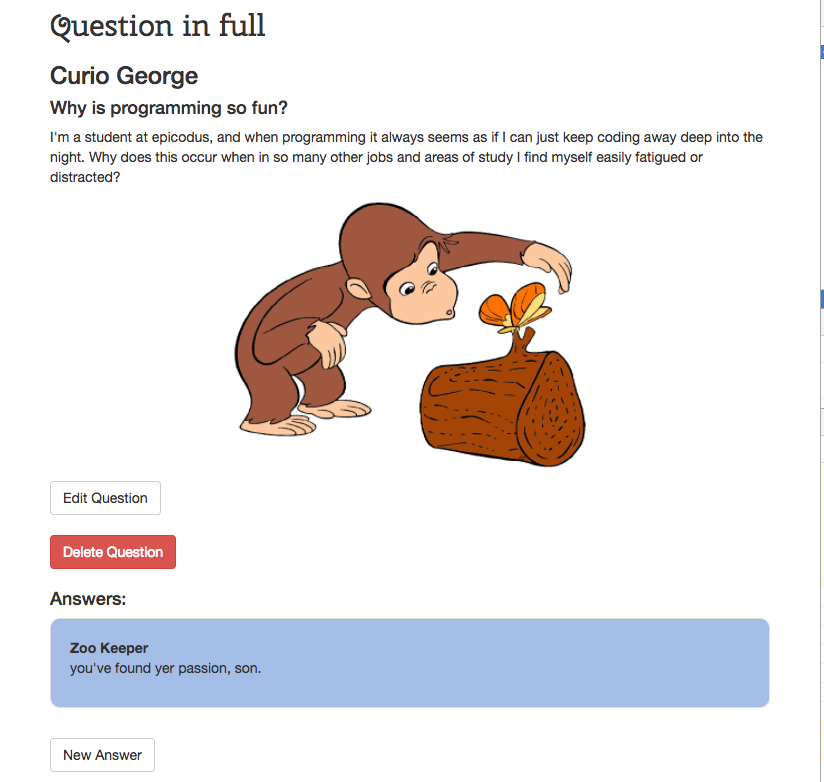
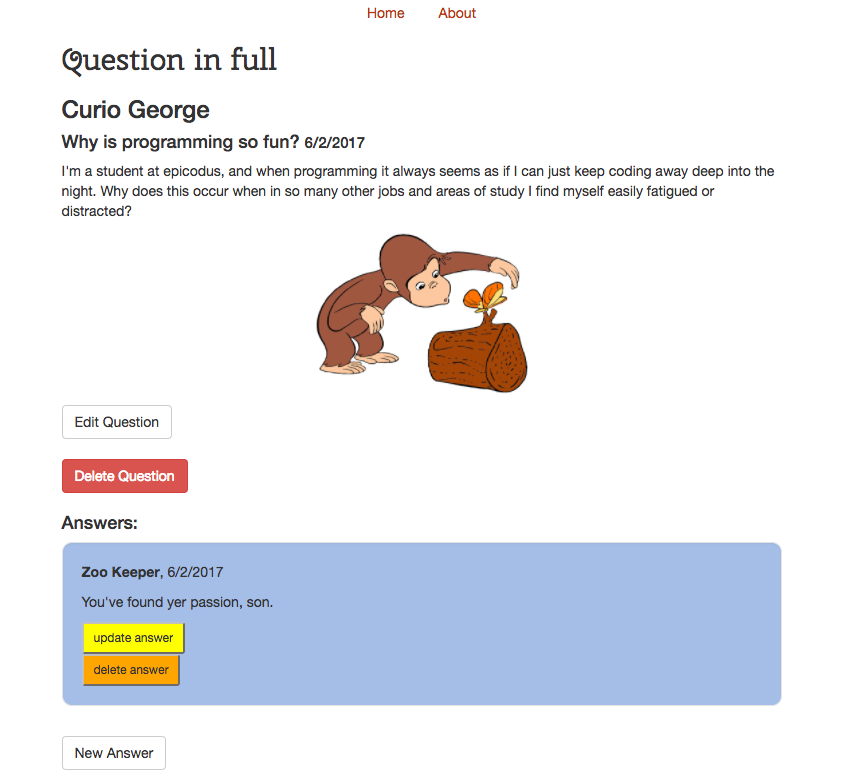
update screenshots and add date parameters to databases

diff --git a/app/components/update-question.js b/app/components/update-question.js
@@ -7,10 +7,13 @@ export default Ember.Component.extend({
       this.set('editQuestion', true);
     },
     updateQuestion(question) {
+      var full_date = new Date($.now());
+      var dayDate = (full_date.getMonth() + 1) + "/" + full_date.getDate() + "/" + full_date.getFullYear();
       var params = {
         author: this.get('author') ? this.get('author') : "",
         content: this.get('content') ? this.get('content') : "",
         notes: this.get('notes') ? this.get('notes') : "",
+        date: dayDate,
         image: this.get('image') ? this.get('image') : "",
       }
       this.set('editQuestion', false);

diff --git a/app/components/new-question.js b/app/components/new-question.js
@@ -7,10 +7,13 @@ export default Ember.Component.extend({
       this.set('addNewQuestion', true);
     },
     saveQuestion() {
+      var full_date = new Date($.now());
+      var dayDate = (full_date.getMonth() + 1) + "/" + full_date.getDate() + "/" + full_date.getFullYear();
       var params = {
         author: this.get('author') ? this.get('author') : "",
         content: this.get('content') ? this.get('content') : "",
         notes: this.get('notes') ? this.get('notes') : "",
+        date: dayDate,
         image: this.get('image') ? this.get('image') : "",
       }
       this.set('addNewQuestion', false);

diff --git a/app/components/update-answer.js b/app/components/update-answer.js
@@ -7,9 +7,12 @@ export default Ember.Component.extend({
       this.set('updateNewAnswer', true);
     },
     updateAnswer(answer) {
+      var full_date = new Date($.now());
+      var dayDate = (full_date.getMonth() + 1) + "/" + full_date.getDate() + "/" + full_date.getFullYear();
       var params = {
          author: this.get('author') ? this.get('author') : "",
          content: this.get('content') ? this.get('content') : "",
+         date: dayDate,
          question: this.get('question')
       };
       this.set('updateNewAnswer', false);

diff --git a/app/components/new-answer.js b/app/components/new-answer.js
@@ -7,9 +7,12 @@ export default Ember.Component.extend({
       this.set('addNewAnswer', true);
     },
     saveAnswer() {
+      var full_date = new Date($.now());
+      var dayDate = (full_date.getMonth() + 1) + "/" + full_date.getDate() + "/" + full_date.getFullYear();
       var params = {
          author: this.get('author') ? this.get('author') : "",
          content: this.get('content') ? this.get('content') : "",
+         date: dayDate,
          question: this.get('question')
       };
       this.set('addNewAnswer', false);

diff --git a/app/styles/app.css b/app/styles/app.css
@@ -49,12 +49,16 @@ body, html {
   border-radius: 30px;
   display: block;
   margin: 0 auto;
-  width: 50%;
+  width: 30%;
 }
 
 .well {
   background: rgb(164, 190, 232);
   border-radius: 10px;
+}
+
+.q-date {
+  font-size: 15px;
 }
 
 a {

diff --git a/app/models/answer.js b/app/models/answer.js
@@ -3,5 +3,6 @@ import DS from 'ember-data';
 export default DS.Model.extend({
   author: DS.attr(),
   content: DS.attr(),
+  date: DS.attr(),
   question: DS.belongsTo('question', { async: true })
 });

diff --git a/app/models/question.js b/app/models/question.js
@@ -5,5 +5,6 @@ export default DS.Model.extend({
   content: DS.attr(),
   notes: DS.attr(),
   image: DS.attr(),
+  date: DS.attr(),
   answers: DS.hasMany('answer', { async: true})
 });
